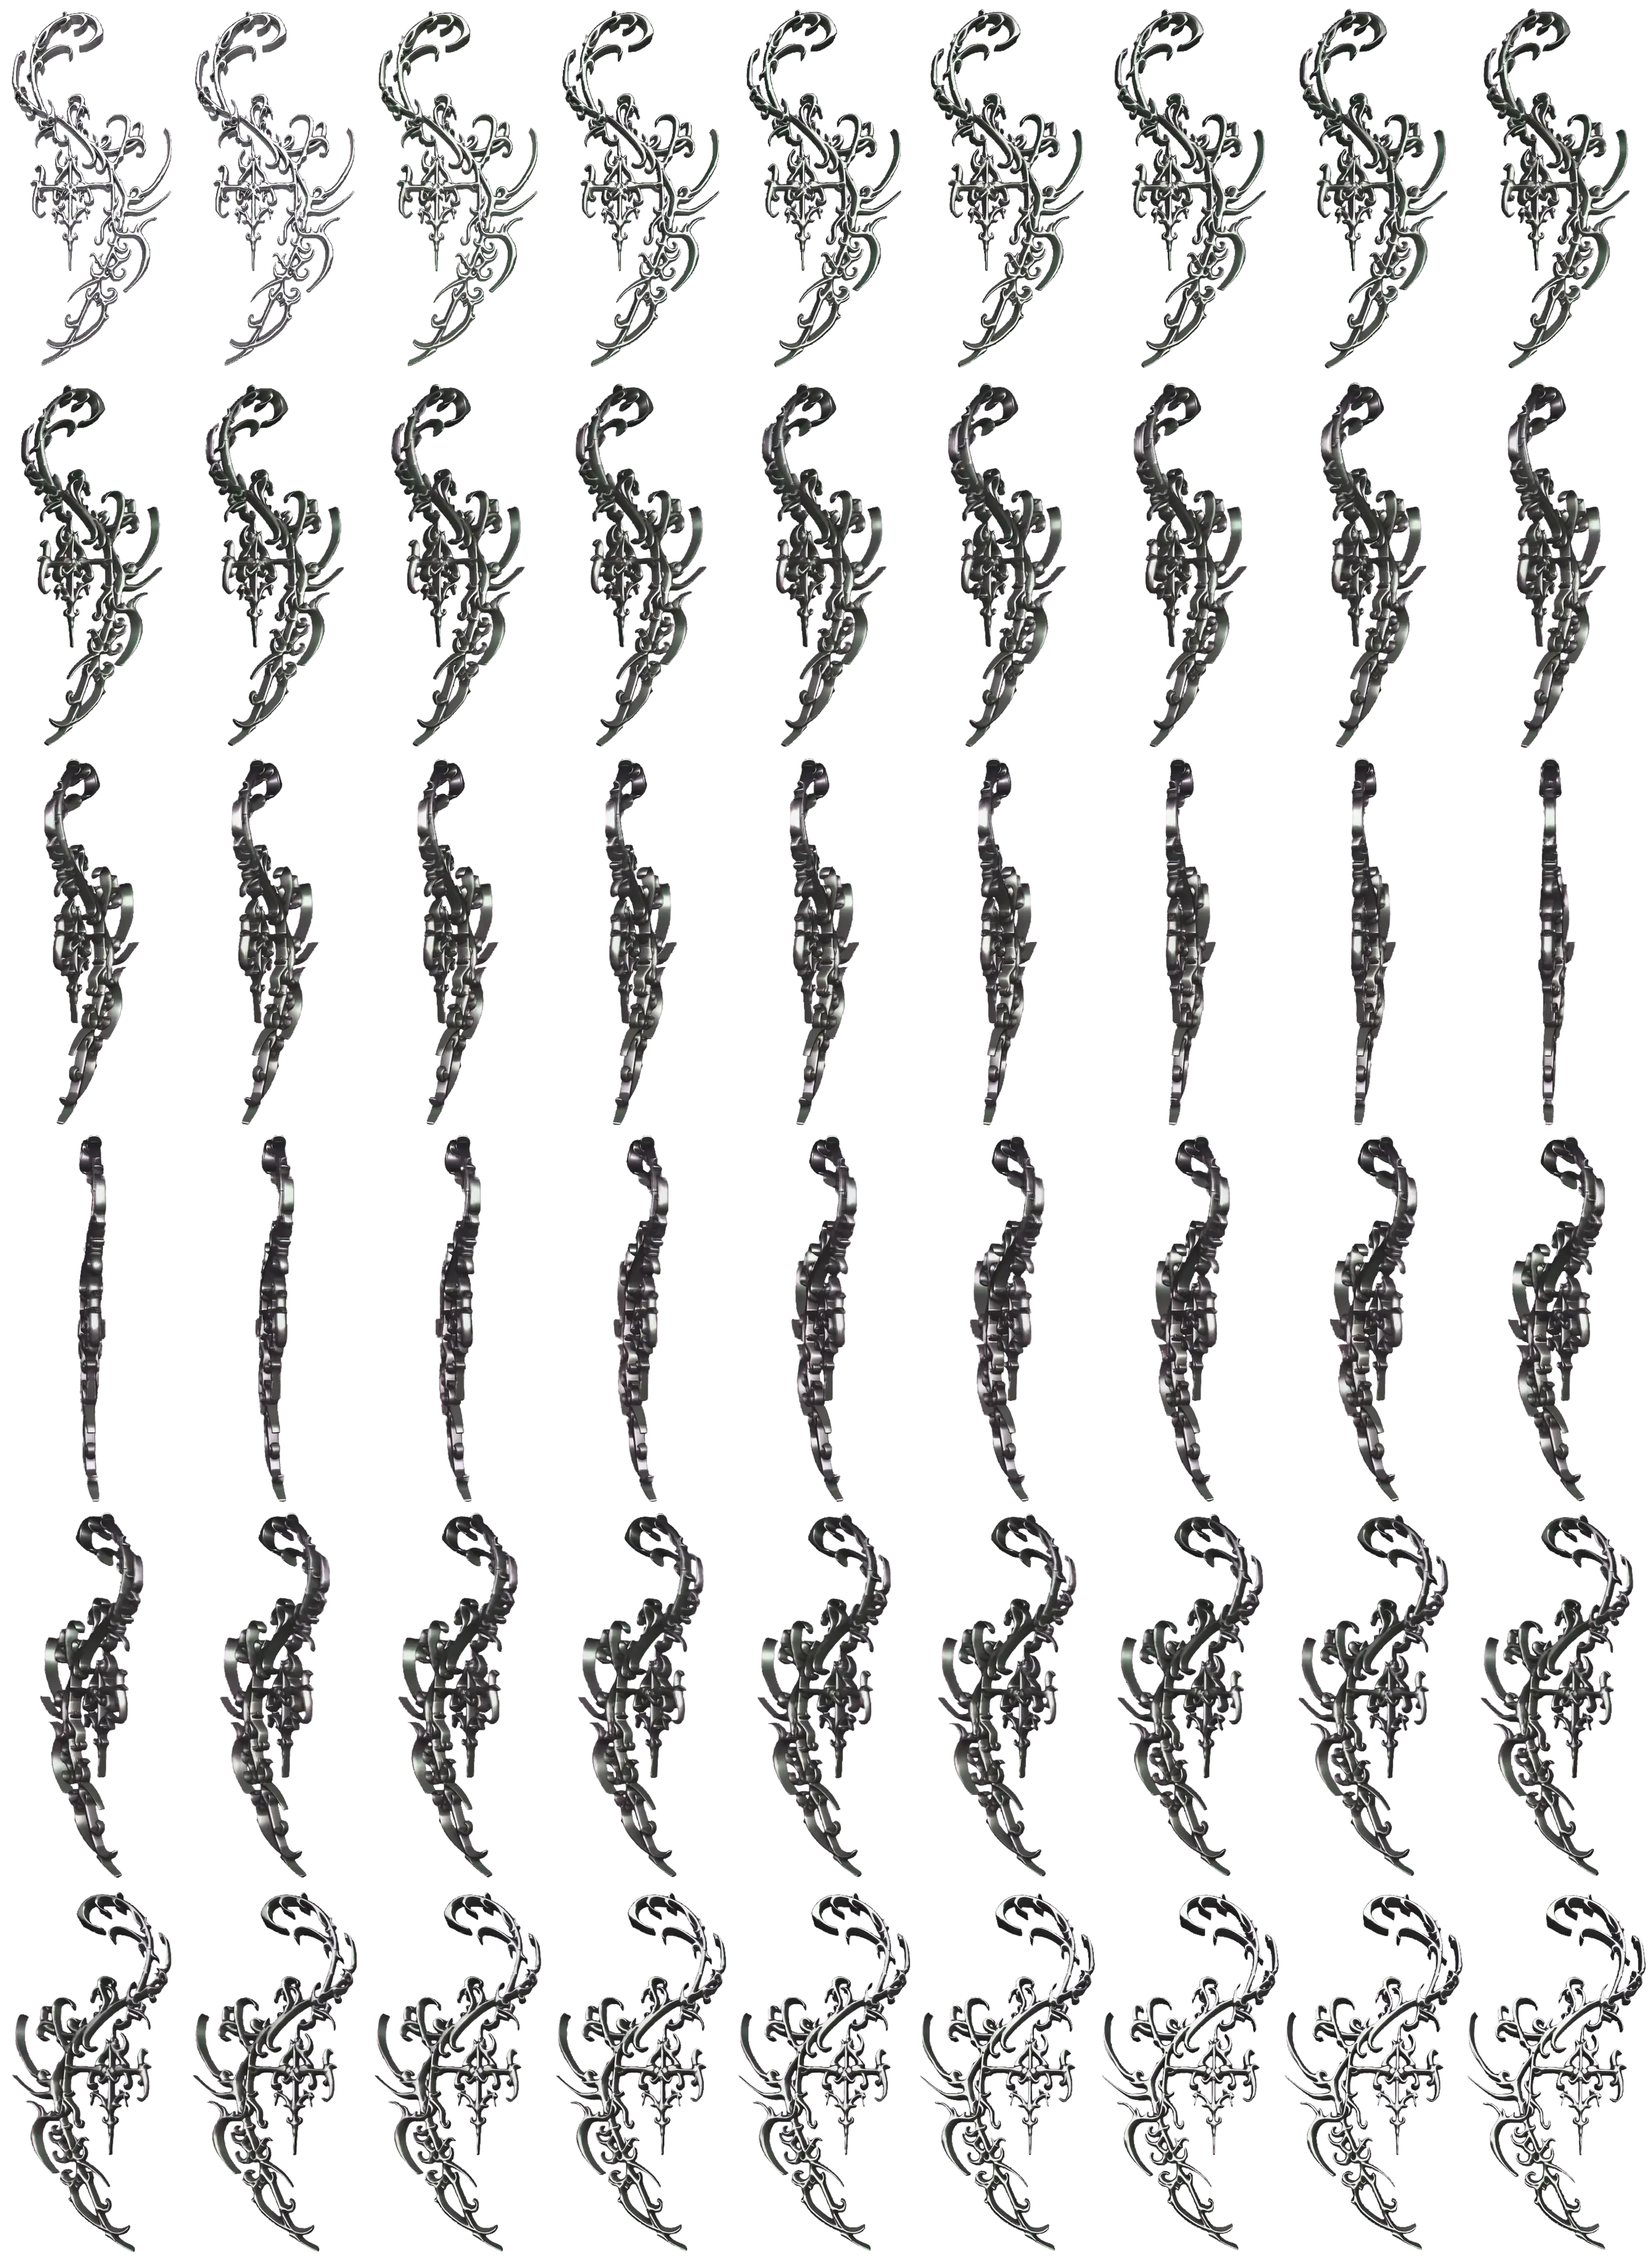
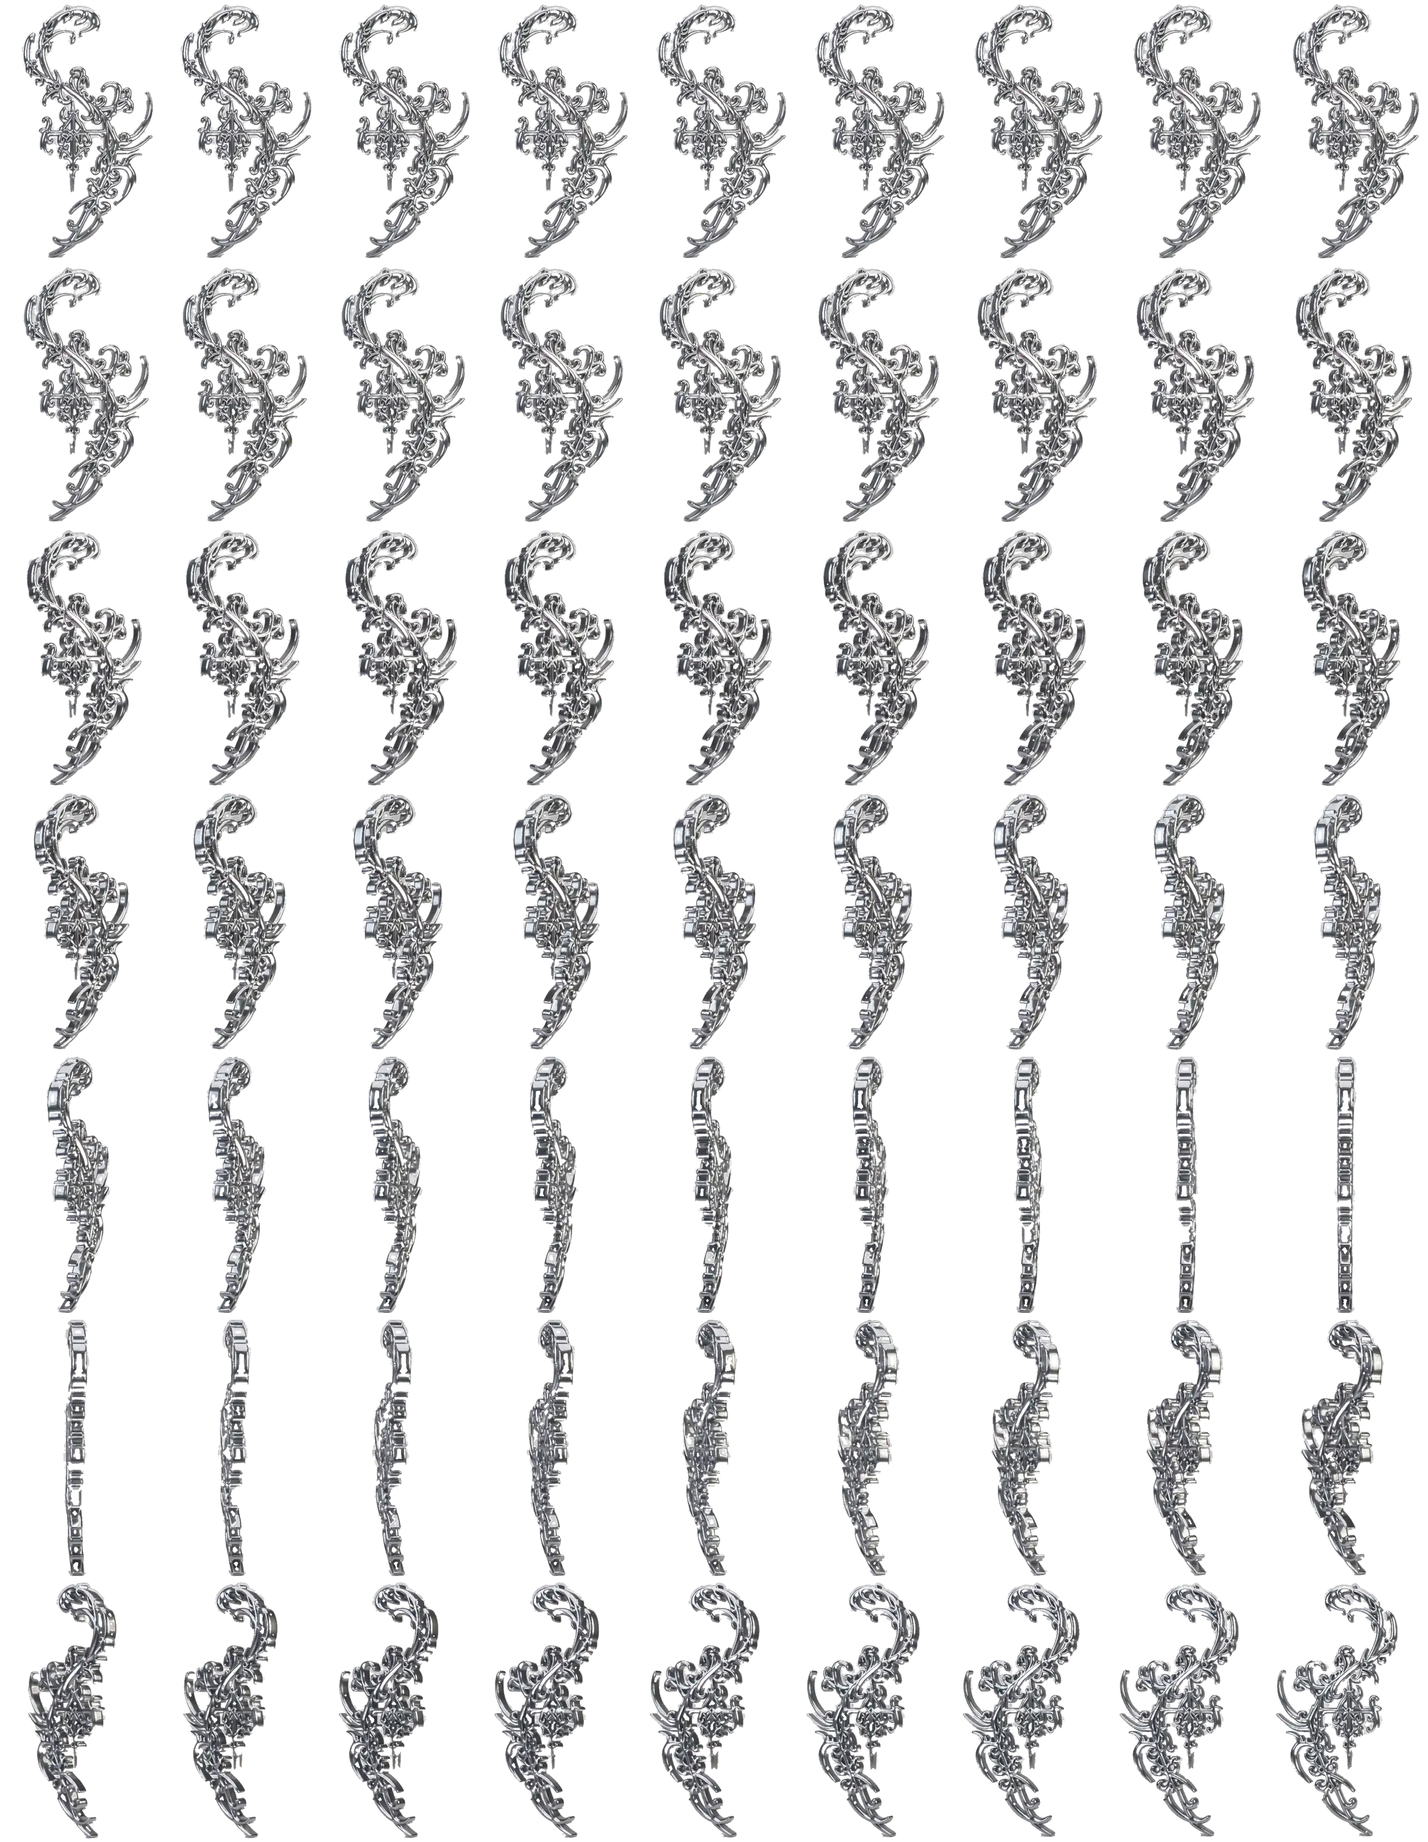
Add files via upload

diff --git a/index.html b/index.html
@@ -101,7 +101,7 @@
   .grafica3d img{width:100%;display:block;}
   .grafica3d.larga{width:76%;}
   .grafica-canvas{display:block;}
-  .slide img.foto{width:100%;height:100%;object-fit:contain;padding:7%;display:block;}
+  .slide img.foto{height:80%;width:auto;max-width:92%;object-fit:contain;display:block;}
   .capo-info{
     position:absolute;left:10px;bottom:9px;z-index:5;
     display:flex;flex-direction:column;gap:1px;pointer-events:none;
@@ -169,15 +169,16 @@
   /* ---- SCHEDA PRODOTTO ---- */
   .galleria{display:flex;overflow-x:auto;scroll-snap-type:x mandatory;-webkit-overflow-scrolling:touch;scrollbar-width:none;}
   .galleria::-webkit-scrollbar{display:none;}
-  .galleria img{flex:none;width:100%;aspect-ratio:4/5;object-fit:contain;padding:4%;scroll-snap-align:center;}
+  .galleria img{flex:none;width:100%;height:min(40vh,360px);object-fit:contain;padding:2% 6%;scroll-snap-align:center;}
   .pallini{display:flex;gap:8px;justify-content:center;padding:10px 0 2px;}
   .pallini i{width:7px;height:7px;border-radius:50%;background:var(--chrome);opacity:.3;transition:opacity .2s;}
   .pallini i.on{opacity:1;background:var(--viola-chiaro);}
-  .scheda-corpo{padding:14px 22px 46px;max-width:520px;margin:0 auto;width:100%;display:flex;flex-direction:column;gap:18px;}
+  .scheda-corpo{padding:8px 22px 40px;max-width:520px;margin:0 auto;width:100%;display:flex;flex-direction:column;gap:14px;}
   .scheda-riga1{display:flex;justify-content:space-between;align-items:baseline;gap:12px;}
   .scheda-nome{font-family:'Anton',sans-serif;font-size:1.9rem;letter-spacing:.04em;text-transform:uppercase;color:var(--chrome);}
   .scheda-prezzo{font-size:1.2rem;font-weight:700;color:var(--viola-chiaro);white-space:nowrap;}
-  .tasti3{display:grid;grid-template-columns:1fr 1fr 1fr;gap:10px;}
+  .tasti3{display:grid;grid-template-columns:repeat(3,1fr);gap:10px;}
+  .tasti3 .chrome > span{height:42px;display:flex;align-items:center;justify-content:center;padding:0 4px;font-size:.56rem;}
   .compra{padding:3px;}
   .compra > span{background:var(--viola);color:var(--nero);font-family:'Anton',sans-serif;font-size:1.15rem;letter-spacing:.16em;padding:15px 8px;}
   .pagamenti{
@@ -277,7 +278,7 @@
     <div class="tasti3">
       <button class="chrome" data-popup="descrizione"><span>Descrizione</span></button>
       <button class="chrome" data-popup="misure"><span>Misure</span></button>
-      <button class="chrome" data-popup="spedizione"><span>Spedizione<br>e resi</span></button>
+      <button class="chrome" data-popup="spedizione"><span>Spedizioni</span></button>
     </div>
     <a class="chrome compra" id="scheda-compra" href="#"><span>Acquista</span></a>
     <div class="pagamenti">
@@ -465,7 +466,7 @@ window.addEventListener('resize', lampoFit);
 const PEZZI = [
   {
     nome:'Pezzo 1', prezzo:'\u20ac 29,90',
-    grafica:{tipo:'sprite', fogli:['pezzo1-spin-a.webp','pezzo1-spin-b.webp'], nfr:108, cols:9, perfoglio:54, fw:300, fh:617, giro:4200, larghezza:'46%'},
+    grafica:{tipo:'sprite', fogli:['pezzo1-spin-a.webp','pezzo1-spin-b.webp'], nfr:126, cols:9, perfoglio:63, fw:260, fh:431, giro:5000, larghezza:'50%'},
     foto:['pezzo1-capo.webp','pezzo1-indossata.webp'],
     misure:[['Taglia','M'],['Spalle','\u2014 cm'],['Petto','\u2014 cm'],['Lunghezza','\u2014 cm'],['Vestibilit\u00e0','Regular'],['Modello','\u2014 cm \u00b7 porta M']],
     descrizione:[
@@ -476,7 +477,7 @@ const PEZZI = [
   },
   {
     nome:'Pezzo 2', prezzo:'\u20ac 29,90',
-    grafica:{tipo:'sprite', fogli:['jeans-spin-a.webp','jeans-spin-b.webp'], nfr:108, cols:6, perfoglio:54, fw:480, fh:228, giro:4200, larghezza:'84%'},
+    grafica:{tipo:'sprite', fogli:['jeans-spin-a.webp','jeans-spin-b.webp'], nfr:222, cols:8, perfoglio:111, fw:400, fh:188, giro:5000, larghezza:'86%'},
     foto:['jeans-capo.webp'],
     misure:[['Taglia','W32'],['Vita','\u2014 cm'],['Cavallo','\u2014 cm'],['Gamba','\u2014 cm'],['Vestibilit\u00e0','Regular'],['Modello','\u2014 cm \u00b7 porta W32']],
     descrizione:[
